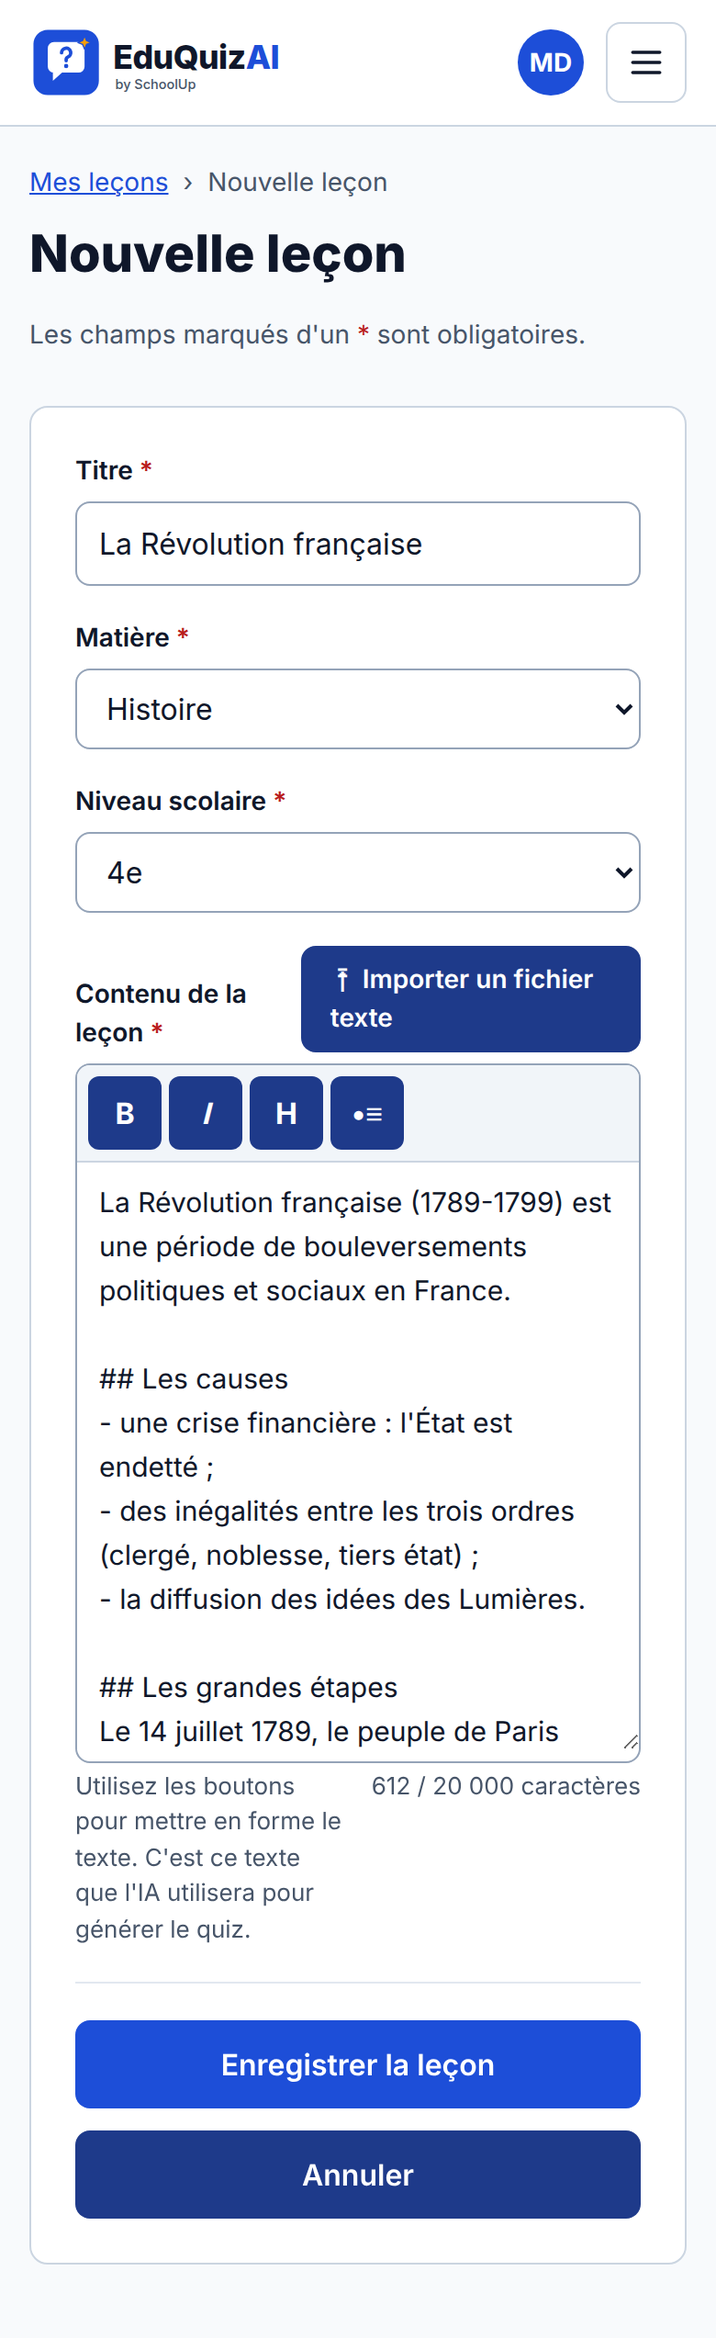
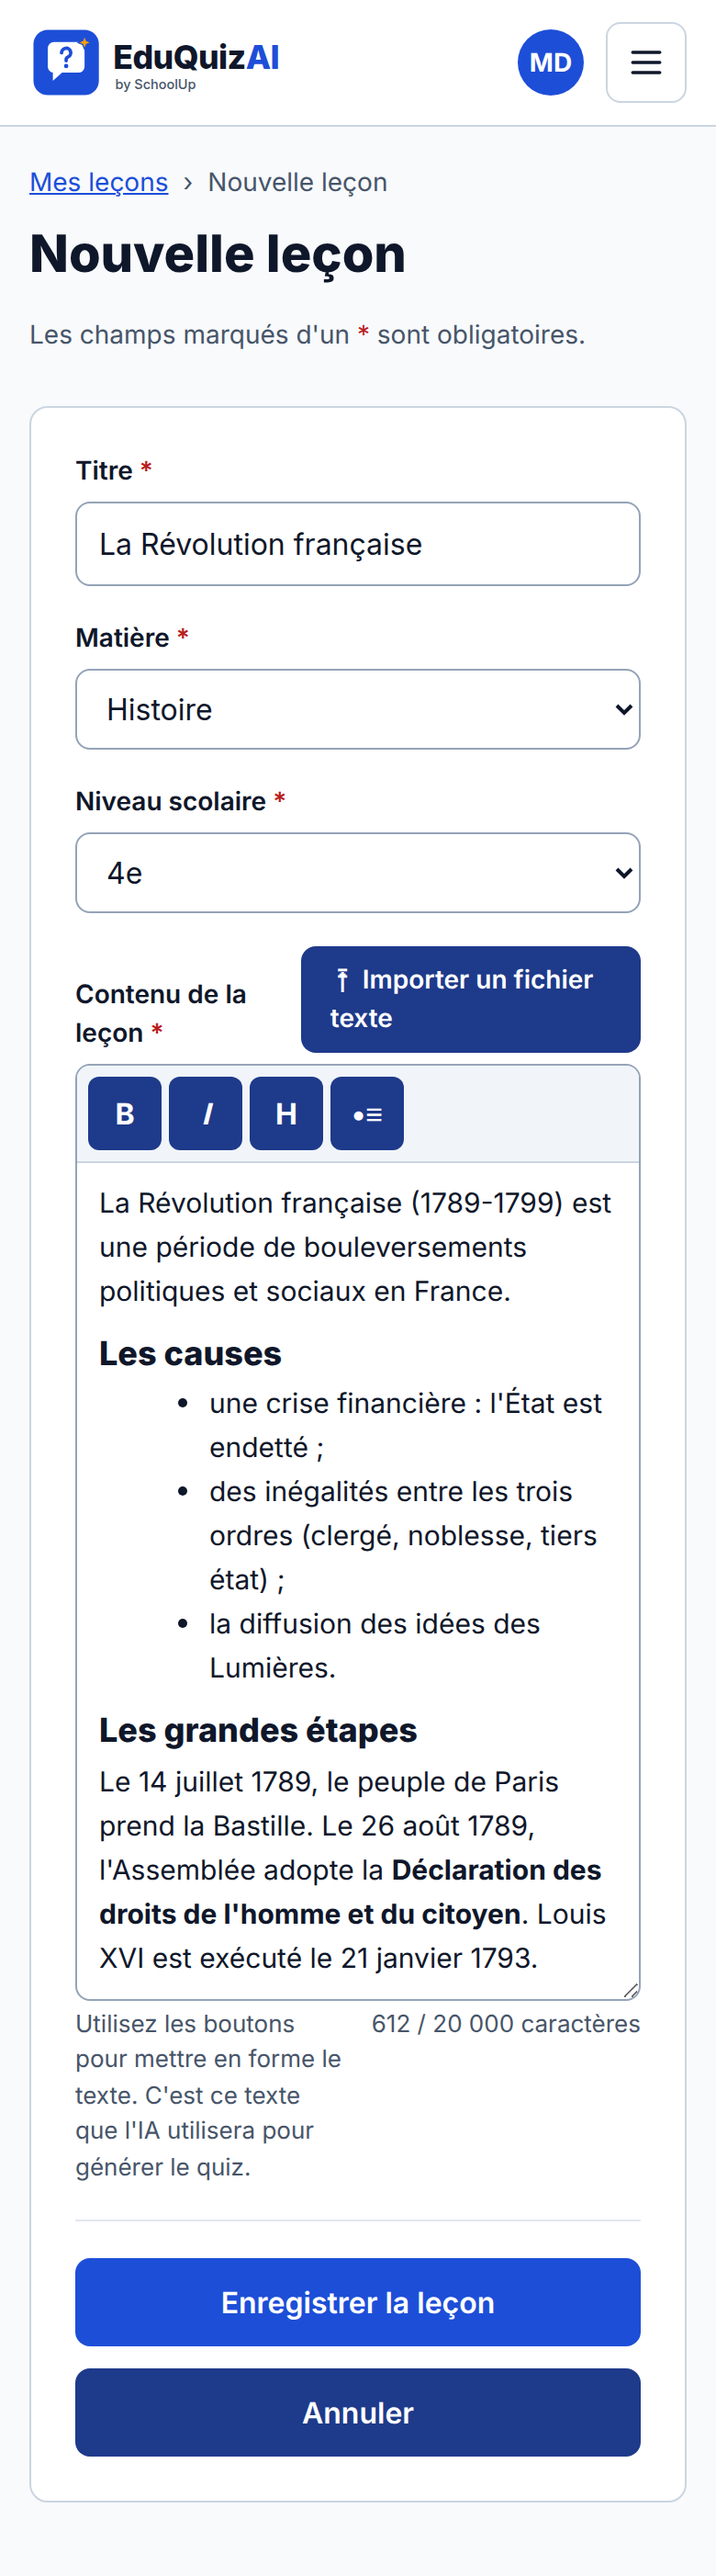
docs(conception): éditeur mis en forme sur les maquettes 4, 4b et 4c

Changed region(s): [[0.0308, 0.0, 0.8923, 0.9619], [0.8615, 0.0, 0.9538, 0.0621], [0.7385, 0.0, 0.8, 0.0621]]

diff --git a/docs/conception/maquettes/04_lecon_form.html b/docs/conception/maquettes/04_lecon_form.html
@@ -44,20 +44,12 @@
         </div>
       </div>
       <div class="champ champ-extensible">
-        <div class="label-ligne"><label for="contenu-lecon" id="lbl-contenu">Contenu de la leçon <span class="obligatoire" aria-hidden="true">*</span></label><a class="btn btn-secondaire btn-petit" href="04c_lecon_import.html">⭱ Importer un fichier texte</a></div>
+        <div class="label-ligne"><label id="lbl-contenu">Contenu de la leçon <span class="obligatoire" aria-hidden="true">*</span></label><a class="btn btn-secondaire btn-petit" href="04c_lecon_import.html">⭱ Importer un fichier texte</a></div>
         <div class="editeur">
           <div class="barre-outils" role="toolbar" aria-label="Mise en forme" aria-controls="contenu-lecon">
             <button type="button" aria-label="Gras">B</button><button type="button" aria-label="Italique"><i>I</i></button><button type="button" aria-label="Titre de section">H</button><button type="button" aria-label="Liste à puces">•≡</button>
           </div>
-          <textarea id="contenu-lecon" name="contenu" required aria-describedby="aide-contenu">La Révolution française (1789-1799) est une période de bouleversements politiques et sociaux en France.
-
-## Les causes
-- une crise financière : l'État est endetté ;
-- des inégalités entre les trois ordres (clergé, noblesse, tiers état) ;
-- la diffusion des idées des Lumières.
-
-## Les grandes étapes
-Le 14 juillet 1789, le peuple de Paris prend la Bastille. Le 26 août 1789, l'Assemblée adopte la **Déclaration des droits de l'homme et du citoyen**. Louis XVI est exécuté le 21 janvier 1793.</textarea>
+          <div class="zone-editeur" id="contenu-lecon" role="textbox" aria-multiline="true" contenteditable="true" aria-labelledby="lbl-contenu" aria-describedby="aide-contenu"><div>La Révolution française (1789-1799) est une période de bouleversements politiques et sociaux en France.</div><h1>Les causes</h1><ul><li>une crise financière : l'État est endetté ;</li><li>des inégalités entre les trois ordres (clergé, noblesse, tiers état) ;</li><li>la diffusion des idées des Lumières.</li></ul><h1>Les grandes étapes</h1><div>Le 14 juillet 1789, le peuple de Paris prend la Bastille. Le 26 août 1789, l'Assemblée adopte la <strong>Déclaration des droits de l'homme et du citoyen</strong>. Louis XVI est exécuté le 21 janvier 1793.</div></div>
         </div>
         <div class="compteur aide" id="aide-contenu"><span>Utilisez les boutons pour mettre en forme le texte. C'est ce texte que l'IA utilisera pour générer le quiz.</span><span>612 / 20 000 caractères</span></div>
       </div>

diff --git a/docs/conception/maquettes/04b_lecon_form_erreur.html b/docs/conception/maquettes/04b_lecon_form_erreur.html
@@ -46,20 +46,12 @@
         </div>
       </div>
       <div class="champ champ-extensible">
-        <div class="label-ligne"><label for="contenu-lecon" id="lbl-contenu">Contenu de la leçon <span class="obligatoire" aria-hidden="true">*</span></label><a class="btn btn-secondaire btn-petit" href="04c_lecon_import.html">⭱ Importer un fichier texte</a></div>
+        <div class="label-ligne"><label id="lbl-contenu">Contenu de la leçon <span class="obligatoire" aria-hidden="true">*</span></label><a class="btn btn-secondaire btn-petit" href="04c_lecon_import.html">⭱ Importer un fichier texte</a></div>
         <div class="editeur">
           <div class="barre-outils" role="toolbar" aria-label="Mise en forme" aria-controls="contenu-lecon">
             <button type="button" aria-label="Gras">B</button><button type="button" aria-label="Italique"><i>I</i></button><button type="button" aria-label="Titre de section">H</button><button type="button" aria-label="Liste à puces">•≡</button>
           </div>
-          <textarea id="contenu-lecon" name="contenu" required aria-describedby="aide-contenu">La Révolution française (1789-1799) est une période de bouleversements politiques et sociaux en France.
-
-## Les causes
-- une crise financière : l'État est endetté ;
-- des inégalités entre les trois ordres (clergé, noblesse, tiers état) ;
-- la diffusion des idées des Lumières.
-
-## Les grandes étapes
-Le 14 juillet 1789, le peuple de Paris prend la Bastille. Le 26 août 1789, l'Assemblée adopte la **Déclaration des droits de l'homme et du citoyen**. Louis XVI est exécuté le 21 janvier 1793.</textarea>
+          <div class="zone-editeur" id="contenu-lecon" role="textbox" aria-multiline="true" contenteditable="true" aria-labelledby="lbl-contenu" aria-describedby="aide-contenu"><div>La Révolution française (1789-1799) est une période de bouleversements politiques et sociaux en France.</div><h1>Les causes</h1><ul><li>une crise financière : l'État est endetté ;</li><li>des inégalités entre les trois ordres (clergé, noblesse, tiers état) ;</li><li>la diffusion des idées des Lumières.</li></ul><h1>Les grandes étapes</h1><div>Le 14 juillet 1789, le peuple de Paris prend la Bastille. Le 26 août 1789, l'Assemblée adopte la <strong>Déclaration des droits de l'homme et du citoyen</strong>. Louis XVI est exécuté le 21 janvier 1793.</div></div>
         </div>
         <div class="compteur aide" id="aide-contenu"><span>Utilisez les boutons pour mettre en forme le texte. C'est ce texte que l'IA utilisera pour générer le quiz.</span><span>612 / 20 000 caractères</span></div>
       </div>

diff --git a/docs/conception/maquettes/04c_lecon_import.html b/docs/conception/maquettes/04c_lecon_import.html
@@ -44,20 +44,12 @@
         </div>
       </div>
       <div class="champ champ-extensible">
-        <div class="label-ligne"><label for="contenu-lecon" id="lbl-contenu">Contenu de la leçon <span class="obligatoire" aria-hidden="true">*</span></label><a class="btn btn-secondaire btn-petit" href="04c_lecon_import.html">⭱ Importer un fichier texte</a></div>
+        <div class="label-ligne"><label id="lbl-contenu">Contenu de la leçon <span class="obligatoire" aria-hidden="true">*</span></label><a class="btn btn-secondaire btn-petit" href="04c_lecon_import.html">⭱ Importer un fichier texte</a></div>
         <div class="editeur">
           <div class="barre-outils" role="toolbar" aria-label="Mise en forme" aria-controls="contenu-lecon">
             <button type="button" aria-label="Gras">B</button><button type="button" aria-label="Italique"><i>I</i></button><button type="button" aria-label="Titre de section">H</button><button type="button" aria-label="Liste à puces">•≡</button>
           </div>
-          <textarea id="contenu-lecon" name="contenu" required aria-describedby="aide-contenu">La Révolution française (1789-1799) est une période de bouleversements politiques et sociaux en France.
-
-## Les causes
-- une crise financière : l'État est endetté ;
-- des inégalités entre les trois ordres (clergé, noblesse, tiers état) ;
-- la diffusion des idées des Lumières.
-
-## Les grandes étapes
-Le 14 juillet 1789, le peuple de Paris prend la Bastille. Le 26 août 1789, l'Assemblée adopte la **Déclaration des droits de l'homme et du citoyen**. Louis XVI est exécuté le 21 janvier 1793.</textarea>
+          <div class="zone-editeur" id="contenu-lecon" role="textbox" aria-multiline="true" contenteditable="true" aria-labelledby="lbl-contenu" aria-describedby="aide-contenu"><div>La Révolution française (1789-1799) est une période de bouleversements politiques et sociaux en France.</div><h1>Les causes</h1><ul><li>une crise financière : l'État est endetté ;</li><li>des inégalités entre les trois ordres (clergé, noblesse, tiers état) ;</li><li>la diffusion des idées des Lumières.</li></ul><h1>Les grandes étapes</h1><div>Le 14 juillet 1789, le peuple de Paris prend la Bastille. Le 26 août 1789, l'Assemblée adopte la <strong>Déclaration des droits de l'homme et du citoyen</strong>. Louis XVI est exécuté le 21 janvier 1793.</div></div>
         </div>
         <div class="compteur aide" id="aide-contenu"><span>Utilisez les boutons pour mettre en forme le texte. C'est ce texte que l'IA utilisera pour générer le quiz.</span><span>612 / 20 000 caractères</span></div>
       </div>

diff --git a/docs/conception/maquettes/assets/style.css b/docs/conception/maquettes/assets/style.css
@@ -118,7 +118,10 @@ td a.t{font-weight:600;color:var(--texte);text-decoration:none}td a.t:hover{colo
 .grille-form{display:grid;grid-template-columns:1fr 1fr;gap:0 20px}
 .obligatoire{color:var(--erreur)}
 .editeur{border:1px solid #94A3B8;border-radius:8px;overflow:hidden;background:#fff}
-.editeur textarea{border:0;border-radius:0;min-height:320px;resize:vertical;font-size:15px;line-height:1.6}
+.editeur textarea,.editeur .zone-editeur{border:0;border-radius:0;min-height:320px;resize:vertical;font-size:15px;line-height:1.6}
+.editeur .zone-editeur{display:block;padding:10px 12px;overflow-y:auto;color:var(--texte);outline:none}
+.editeur .zone-editeur h1{font-size:18px;margin:12px 0 4px}
+.editeur .zone-editeur ul{margin:0 0 0 20px}
 .barre-outils{display:flex;gap:4px;padding:6px;border-bottom:1px solid var(--bordure);background:#F1F5F9}
 .barre-outils button{min-width:40px;min-height:40px;border:0;border-radius:6px;background:var(--primaire-fonce);color:#fff;font:inherit;font-weight:700;cursor:pointer}
 .barre-outils button:hover{background:var(--primaire)}
@@ -136,7 +139,7 @@ input[aria-invalid="true"],textarea[aria-invalid="true"]{border:2px solid var(--
   .form-plein{flex:1;min-height:0;display:flex;flex-direction:column;max-width:none}
   .form-plein .champ-extensible{flex:1;min-height:0;display:flex;flex-direction:column;margin-bottom:0}
   .form-plein .editeur{flex:1;min-height:0;display:flex;flex-direction:column}
-  .form-plein .editeur textarea{flex:1;min-height:120px;resize:none}
+  .form-plein .editeur textarea,.form-plein .editeur .zone-editeur{flex:1;min-height:120px;resize:none}
   .grille-form-3{display:grid;grid-template-columns:2fr 1fr 1fr;gap:0 20px}
   .form-plein .actions-form{margin-top:16px;padding-top:16px}
 }
